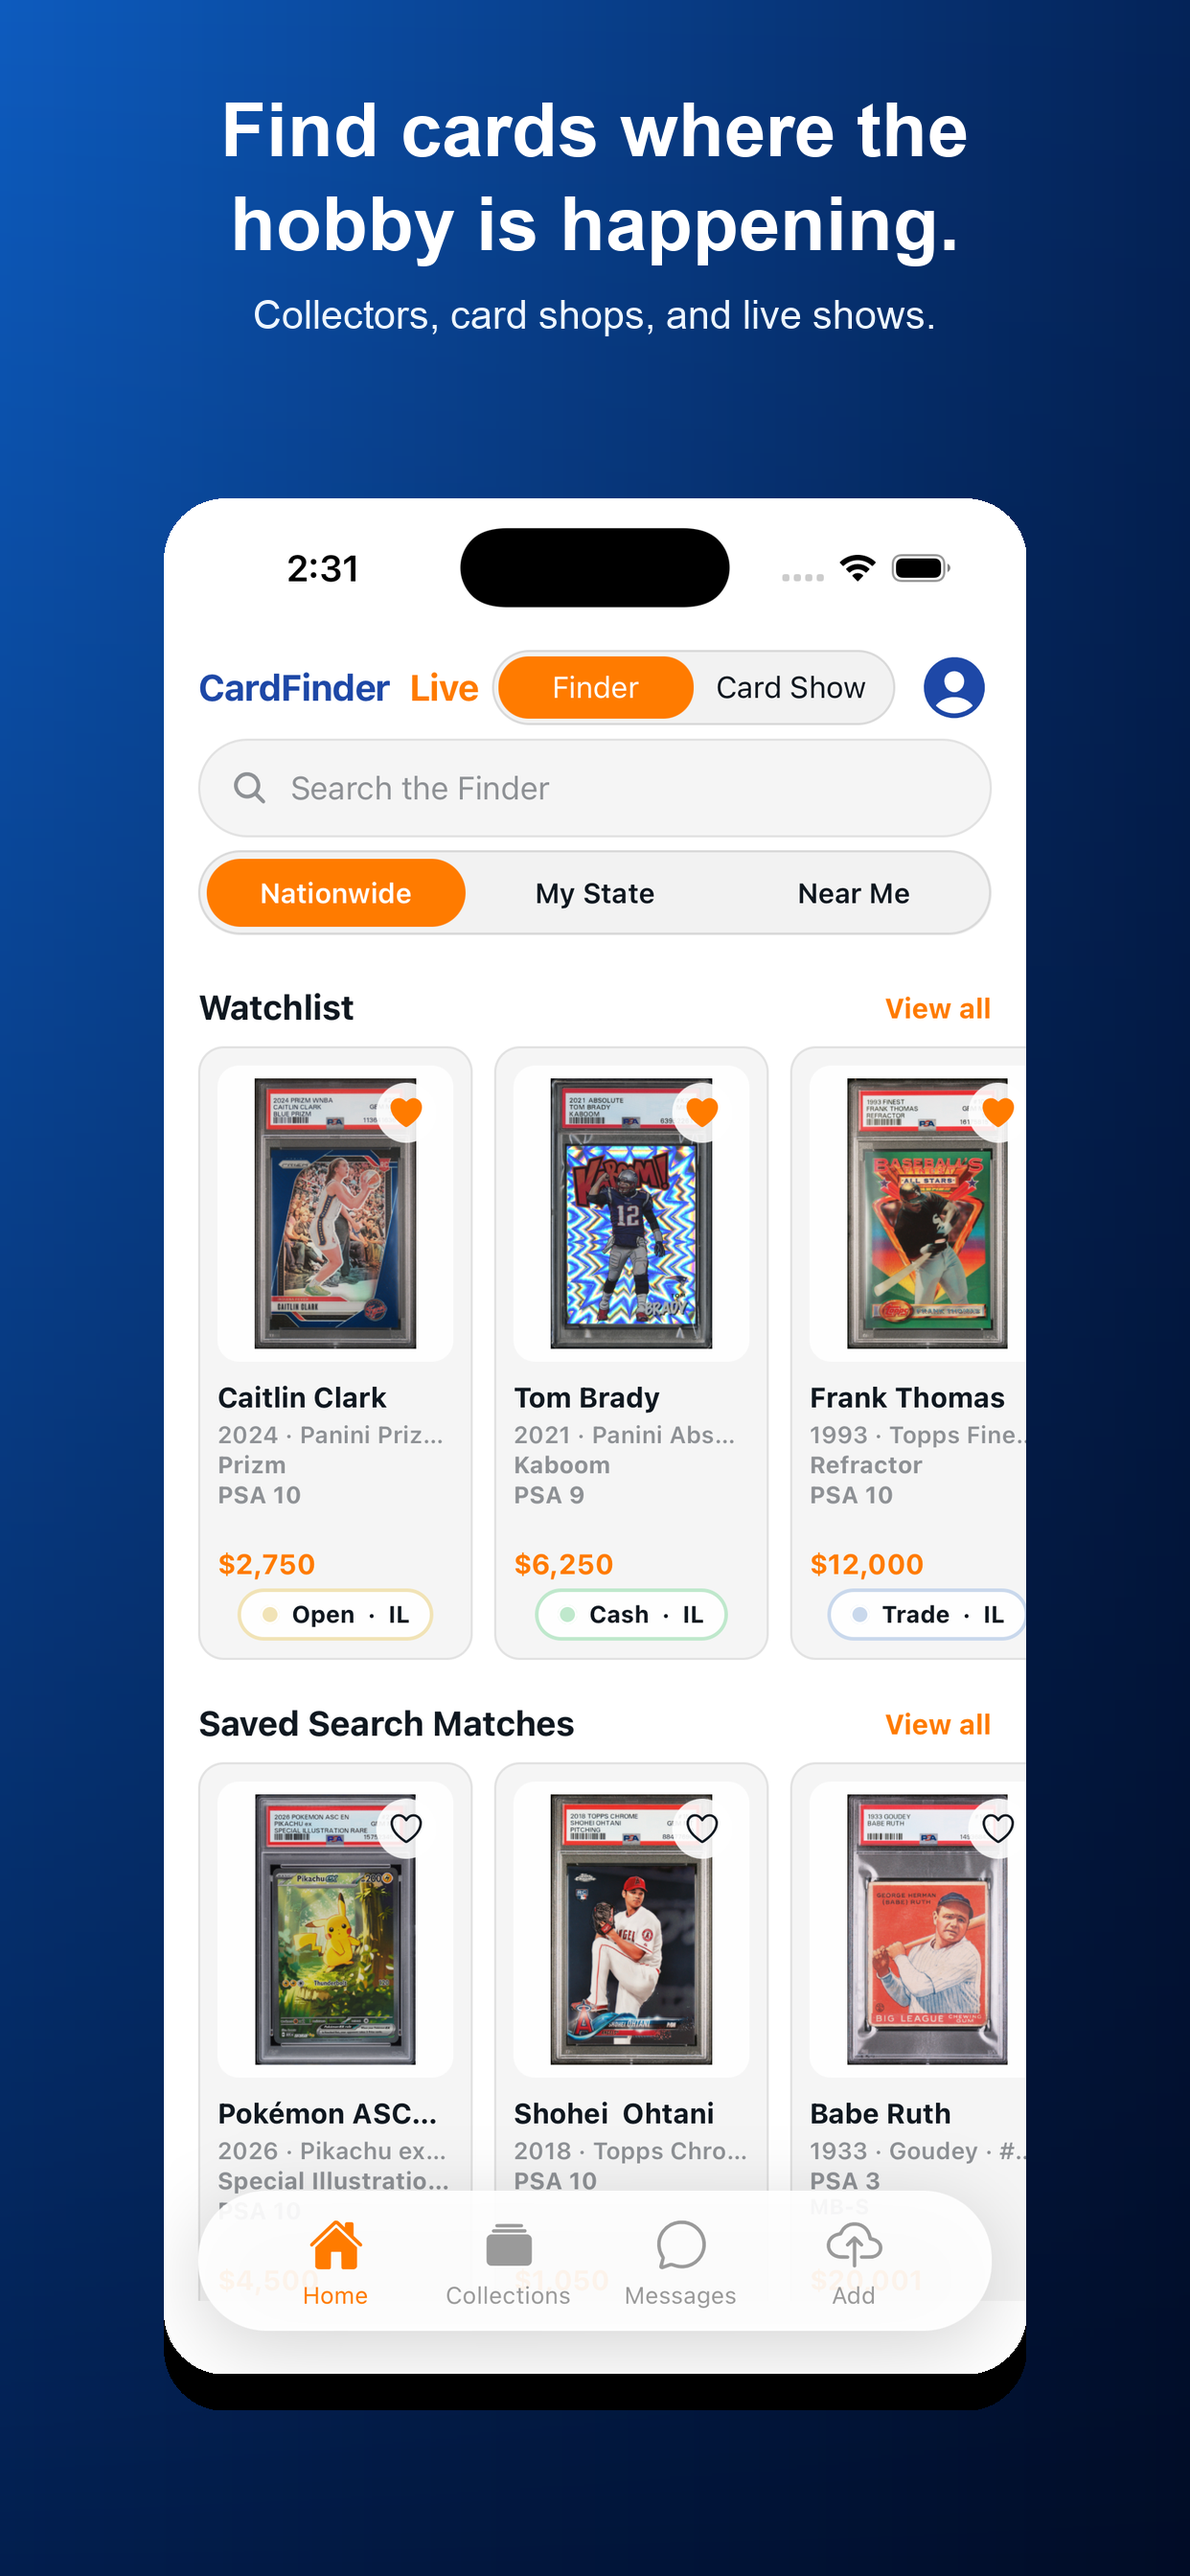
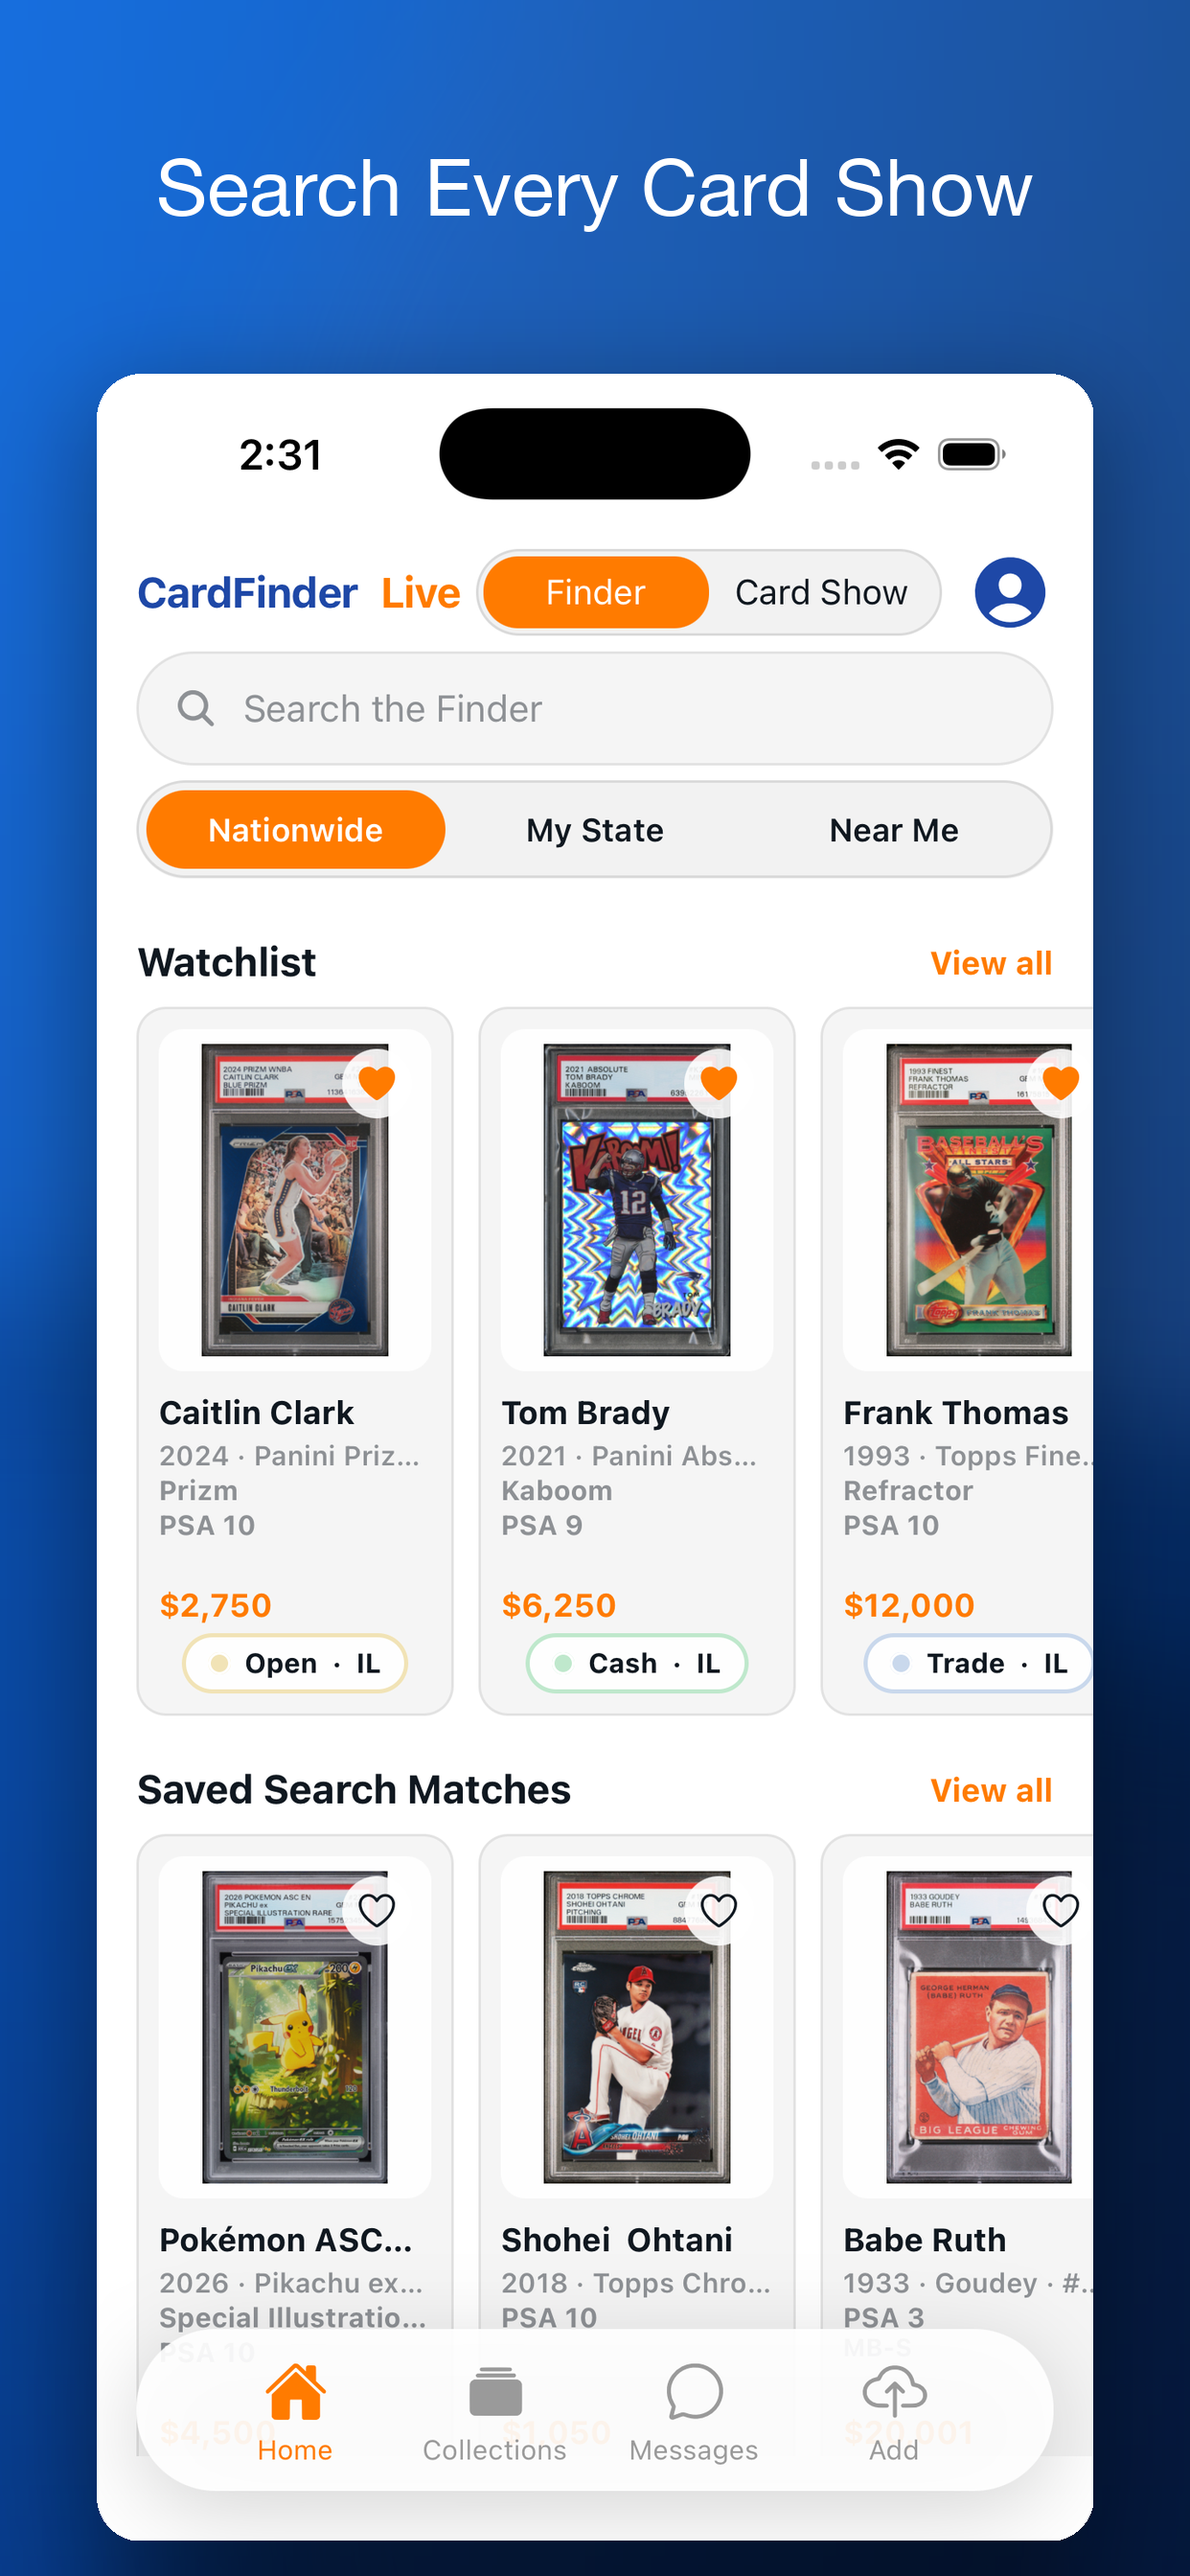
Update website marketing for App Store 1.2

diff --git a/index.html b/index.html
@@ -34,6 +34,10 @@
       line-height: 1.55;
     }
 
+    html {
+      scroll-behavior: smooth;
+    }
+
     .wrap {
       width: min(1120px, calc(100% - 32px));
       margin: 0 auto;
@@ -362,6 +366,110 @@
       margin-top: 6px;
     }
 
+    .follow-section {
+      margin-top: 28px;
+      background: linear-gradient(135deg, rgba(255, 255, 255, 0.98), rgba(234, 243, 255, 0.94));
+      border: 1px solid var(--line);
+      border-radius: 26px;
+      padding: clamp(22px, 4vw, 32px);
+      box-shadow: 0 14px 36px rgba(5, 27, 73, 0.06);
+      display: grid;
+      gap: 16px;
+      text-align: center;
+    }
+
+    .follow-section h2 {
+      margin: 0;
+      color: var(--navy);
+      font-size: clamp(24px, 3.4vw, 34px);
+      letter-spacing: -0.04em;
+    }
+
+    .follow-section .subtitle {
+      margin: 0;
+      color: var(--muted);
+      font-size: 17px;
+    }
+
+    .follow-section .body {
+      margin: 0 auto;
+      max-width: 760px;
+      color: var(--muted);
+      font-size: 17px;
+    }
+
+    .follow-list {
+      margin: 0 auto;
+      padding: 0;
+      list-style: none;
+      display: grid;
+      gap: 6px;
+      color: var(--muted);
+      font-size: 17px;
+    }
+
+    .follow-list li::before {
+      content: "•";
+      color: var(--orange);
+      font-weight: 900;
+      margin-right: 8px;
+    }
+
+    .social-row {
+      display: flex;
+      justify-content: center;
+      align-items: stretch;
+      gap: 12px;
+      flex-wrap: wrap;
+    }
+
+    .social-link {
+      width: 110px;
+      min-height: 120px;
+      display: inline-flex;
+      flex-direction: column;
+      align-items: center;
+      justify-content: center;
+      gap: 10px;
+      padding: 14px 12px;
+      border-radius: 22px;
+      border: 1px solid var(--line);
+      background: rgba(255,255,255,0.9);
+      color: var(--navy);
+      text-decoration: none;
+      box-shadow: 0 10px 24px rgba(5, 27, 73, 0.05);
+      transition: transform 140ms ease, border-color 140ms ease, box-shadow 140ms ease, color 140ms ease, background-color 140ms ease;
+    }
+
+    .social-link:hover,
+    .social-link:focus-visible {
+      transform: translateY(-2px);
+      border-color: rgba(11, 102, 255, 0.34);
+      box-shadow: 0 14px 28px rgba(5, 27, 73, 0.09);
+      color: var(--blue-bright);
+      outline: none;
+    }
+
+    .social-icon {
+      width: 52px;
+      height: 52px;
+      border-radius: 18px;
+      background: linear-gradient(135deg, var(--blue-bright), var(--blue));
+      color: #fff;
+      display: grid;
+      place-items: center;
+      font-size: 18px;
+      font-weight: 950;
+      letter-spacing: -0.04em;
+      box-shadow: 0 12px 22px rgba(6, 70, 167, 0.18);
+    }
+
+    .social-name {
+      font-size: 14px;
+      font-weight: 850;
+      letter-spacing: -0.02em;
+    }
+
     .screen-card {
       background: #061b48;
       border-radius: 28px;
@@ -448,6 +556,7 @@
       <nav aria-label="Primary navigation">
         <a href="/" aria-current="page">Home</a>
         <a href="/our-story/">Our Story</a>
+        <a href="#follow-us">Follow Us</a>
         <a href="/privacy/">Privacy</a>
         <a href="/terms/">Terms</a>
         <a href="/support/">Support</a>
@@ -492,12 +601,12 @@
           <article class="feature">
             <div class="icon">⌕</div>
             <h3>Find Cards</h3>
-            <p>Discover cards nearby, in your state, or nationwide.</p>
+            <p>Discover cards from collectors, shops, and live shows.</p>
           </article>
           <article class="feature">
             <div class="icon">★</div>
             <h3>Find Shows</h3>
-            <p>Browse and save card shows and live events.</p>
+            <p>Browse, save, and plan your next card show.</p>
           </article>
           <article class="feature">
             <div class="icon">●</div>
@@ -524,19 +633,19 @@
 
       <section class="section">
         <div class="section-title">
-          <h2>See the app.</h2>
-          <p>See how CardFinder Live helps collectors before, during, and after every card show.</p>
+          <h2>See how it works.</h2>
+          <p>Find cards. Meet collectors. Make the deal.</p>
         </div>
 
         <div class="screens">
-          <div class="screen-card"><img src="/assets/screenshots/01_finder.png" alt="CardFinder Live Finder screen" /></div>
-          <div class="screen-card"><img src="/assets/screenshots/02_cardshow_map.png" alt="Card show map screen" /></div>
-          <div class="screen-card"><img src="/assets/screenshots/03_show_details.png" alt="Card show details screen" /></div>
-          <div class="screen-card"><img src="/assets/screenshots/04_go_live.png" alt="Go live at a card show screen" /></div>
-          <div class="screen-card"><img src="/assets/screenshots/05_live_cards.png" alt="Live cards at a show screen" /></div>
-          <div class="screen-card"><img src="/assets/screenshots/06_card_detail.png" alt="Card detail and seller contact screen" /></div>
-          <div class="screen-card"><img src="/assets/screenshots/07_messages.png" alt="Messages screen" /></div>
-          <div class="screen-card"><img src="/assets/screenshots/08_collection.png" alt="Collection visibility screen" /></div>
+          <div class="screen-card"><img src="/assets/screenshots/01_finder.png" alt="1. Find cards where the hobby is happening." title="1. Find cards where the hobby is happening." /></div>
+          <div class="screen-card"><img src="/assets/screenshots/02_cardshow_map.png" alt="2. Make the card show searchable." title="2. Make the card show searchable." /></div>
+          <div class="screen-card"><img src="/assets/screenshots/03_show_details.png" alt="3. Plan your next card show." title="3. Plan your next card show." /></div>
+          <div class="screen-card"><img src="/assets/screenshots/04_go_live.png" alt="4. Go live when you arrive." title="4. Go live when you arrive." /></div>
+          <div class="screen-card"><img src="/assets/screenshots/05_live_cards.png" alt="5. See cards live at the show." title="5. See cards live at the show." /></div>
+          <div class="screen-card"><img src="/assets/screenshots/06_card_detail.png" alt="6. Connect when interest is real." title="6. Connect when interest is real." /></div>
+          <div class="screen-card"><img src="/assets/screenshots/07_messages.png" alt="7. Coordinate real-world deals." title="7. Coordinate real-world deals." /></div>
+          <div class="screen-card"><img src="/assets/screenshots/08_collection.png" alt="8. Manage your collection." title="8. Manage your collection." /></div>
         </div>
 
       </section>
@@ -551,6 +660,48 @@
         <div class="actions">
           <a class="button secondary" href="/our-story/">Read Our Story →</a>
         </div>
+      </section>
+
+      <section class="follow-section" id="follow-us" aria-labelledby="follow-us-title">
+        <h2 id="follow-us-title">Follow CardFinder Live</h2>
+        <p class="subtitle">We're building CardFinder Live alongside the collecting community.</p>
+        <p class="body">
+          Follow along for:
+        </p>
+        <ul class="follow-list" aria-label="Follow CardFinder Live for product updates, new features, card show announcements, behind-the-scenes development, and collector highlights">
+          <li>Product updates</li>
+          <li>New features</li>
+          <li>Card show announcements</li>
+          <li>Behind-the-scenes development</li>
+          <li>Collector highlights</li>
+        </ul>
+
+        <div class="social-row" aria-label="CardFinder Live social links">
+          <a class="social-link" href="https://www.instagram.com/cardfinderlive/" target="_blank" rel="noopener noreferrer" aria-label="Follow CardFinder Live on Instagram">
+            <span class="social-icon" aria-hidden="true">IG</span>
+            <span class="social-name">Instagram</span>
+          </a>
+          <a class="social-link" href="https://www.youtube.com/@CardFinderLive" target="_blank" rel="noopener noreferrer" aria-label="Follow CardFinder Live on YouTube">
+            <span class="social-icon" aria-hidden="true">YT</span>
+            <span class="social-name">YouTube</span>
+          </a>
+          <a class="social-link" href="https://www.facebook.com/profile.php?id=61585046140962" target="_blank" rel="noopener noreferrer" aria-label="Follow CardFinder Live on Facebook">
+            <span class="social-icon" aria-hidden="true">FB</span>
+            <span class="social-name">Facebook</span>
+          </a>
+          <a class="social-link" href="https://x.com/cardfinderlive?s=11" target="_blank" rel="noopener noreferrer" aria-label="Follow CardFinder Live on X">
+            <span class="social-icon" aria-hidden="true">X</span>
+            <span class="social-name">X</span>
+          </a>
+          <a class="social-link" href="https://www.tiktok.com/@cardfinder.live" target="_blank" rel="noopener noreferrer" aria-label="Follow CardFinder Live on TikTok">
+            <span class="social-icon" aria-hidden="true">TT</span>
+            <span class="social-name">TikTok</span>
+          </a>
+        </div>
+
+        <p class="body">
+          Be the first to hear about new features, major card shows, and CardFinder Live updates.
+        </p>
       </section>
     </main>
 

diff --git a/docs/contracts/website/WEBSITE_DEPLOYMENT.md b/docs/contracts/website/WEBSITE_DEPLOYMENT.md
@@ -9,6 +9,44 @@ This document is the canonical guide for publishing the CardFinder Live public w
 
 Use this document when editing, reviewing, committing, pushing, or rolling back the production site.
 
+## Required website task workflow
+
+Website work must move through three explicit phases:
+
+### Phase 1 — Edit
+
+- Make the requested changes locally.
+- Validate the HTML/CSS and route structure.
+- Stop before assuming anything is live.
+
+### Phase 2 — Publish
+
+- Check `git status`.
+- Commit the changes.
+- Push to `origin/main`.
+- Verify both:
+  - the working tree is clean
+  - `origin/main` matches `HEAD`
+
+### Phase 3 — Production verification
+
+- Wait for GitHub Pages to finish deploying.
+- Verify the live production page reflects the latest commit.
+- If production does not match, identify why before reporting success.
+
+## Mandatory reporting format
+
+Use this checklist for every website task:
+
+- [ ] Edited locally only
+- [ ] Committed
+- [ ] Pushed
+- [ ] `origin/main == HEAD`
+- [ ] GitHub Pages deployment initiated
+- [ ] Live production verified
+
+Do not report "Done", "Completed", or "Published" unless the requested change has been committed, pushed, and the deployment state has been explicitly verified.
+
 ## Production repository
 
 - Repository: `Swoodall-pixel/cardfinderlive-site`
@@ -121,6 +159,7 @@ For future website changes:
 6. Push to `origin/main`.
 7. Wait for GitHub Pages deployment.
 8. Re-verify production.
+9. Only then mark the task complete.
 
 ## Lesson learned
 

diff --git a/docs/contracts/website/README.md b/docs/contracts/website/README.md
@@ -30,6 +30,26 @@ Start here for future website releases:
 
 - `WEBSITE_DEPLOYMENT.md`
 
+## Quick AI navigation
+
+When a future ChatGPT or Codex session needs to work on the website, read these docs in order:
+
+1. `README.md`
+2. `WEBSITE_DEPLOYMENT.md`
+3. `FOUNDER_STORY.md`
+4. `OUR_STORY_PAGE_SPEC.md`
+5. `WEBSITE_V2_ROADMAP.md`
+
+If the task is only to edit copy or routes, follow the required website workflow in `WEBSITE_DEPLOYMENT.md` and do not call the task complete until:
+
+- the changes are committed
+- the changes are pushed to `main`
+- `origin/main` matches `HEAD`
+- GitHub Pages has started deploying the new commit
+- the live page matches the newest commit
+
+Use the mandatory reporting checklist from `WEBSITE_DEPLOYMENT.md` for every website task.
+
 ## Notes
 
 - Do not treat `WEBSITE_V2_ROADMAP.md` as Launch V1 scope
